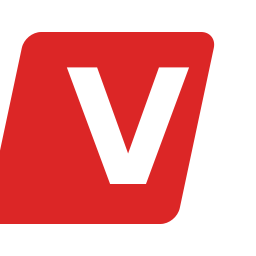
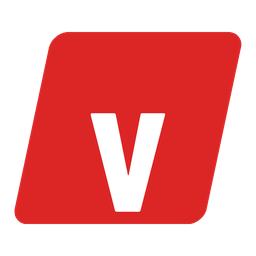
Re-render PNG brand assets with correct Barlow Semi Condensed font
Previous renders used a system fallback font. Now renders PNGs via
Pillow with the actual Barlow Semi Condensed Bold/ExtraBold TTF files,
producing correct semi-condensed letterforms that match the HTML logo.

Also tightens logo proportions so the text fills the parallelogram
properly and updates dimension labels in the design system.

https://claude.ai/code/session_013fLgnNrJtXK6Aj3BmEKfpL

diff --git a/resources/views/design-system/sections/logo-brand.blade.php b/resources/views/design-system/sections/logo-brand.blade.php
@@ -225,7 +225,7 @@
             <div class="border-t border-slate-200 px-4 py-3 bg-slate-50 flex items-center justify-between">
                 <div>
                     <div class="text-xs font-medium text-slate-700">Transparent background</div>
-                    <div class="text-[10px] text-slate-400">560 &times; 128 &middot; PNG</div>
+                    <div class="text-[10px] text-slate-400">354 &times; 94 (1x) &middot; PNG</div>
                 </div>
                 <div class="flex gap-2">
                     <a href="/img/brand/logo.png" download class="text-[10px] font-medium text-sky-600 hover:text-sky-800 px-2 py-1 bg-sky-50 rounded transition-colors">1x</a>
@@ -242,7 +242,7 @@
             <div class="border-t border-slate-700 px-4 py-3 bg-slate-800 flex items-center justify-between">
                 <div>
                     <div class="text-xs font-medium text-slate-200">Dark background</div>
-                    <div class="text-[10px] text-slate-400">640 &times; 208 &middot; PNG</div>
+                    <div class="text-[10px] text-slate-400">434 &times; 174 (1x) &middot; PNG</div>
                 </div>
                 <div class="flex gap-2">
                     <a href="/img/brand/logo-dark.png" download class="text-[10px] font-medium text-sky-400 hover:text-sky-300 px-2 py-1 bg-sky-900/30 rounded transition-colors">1x</a>
